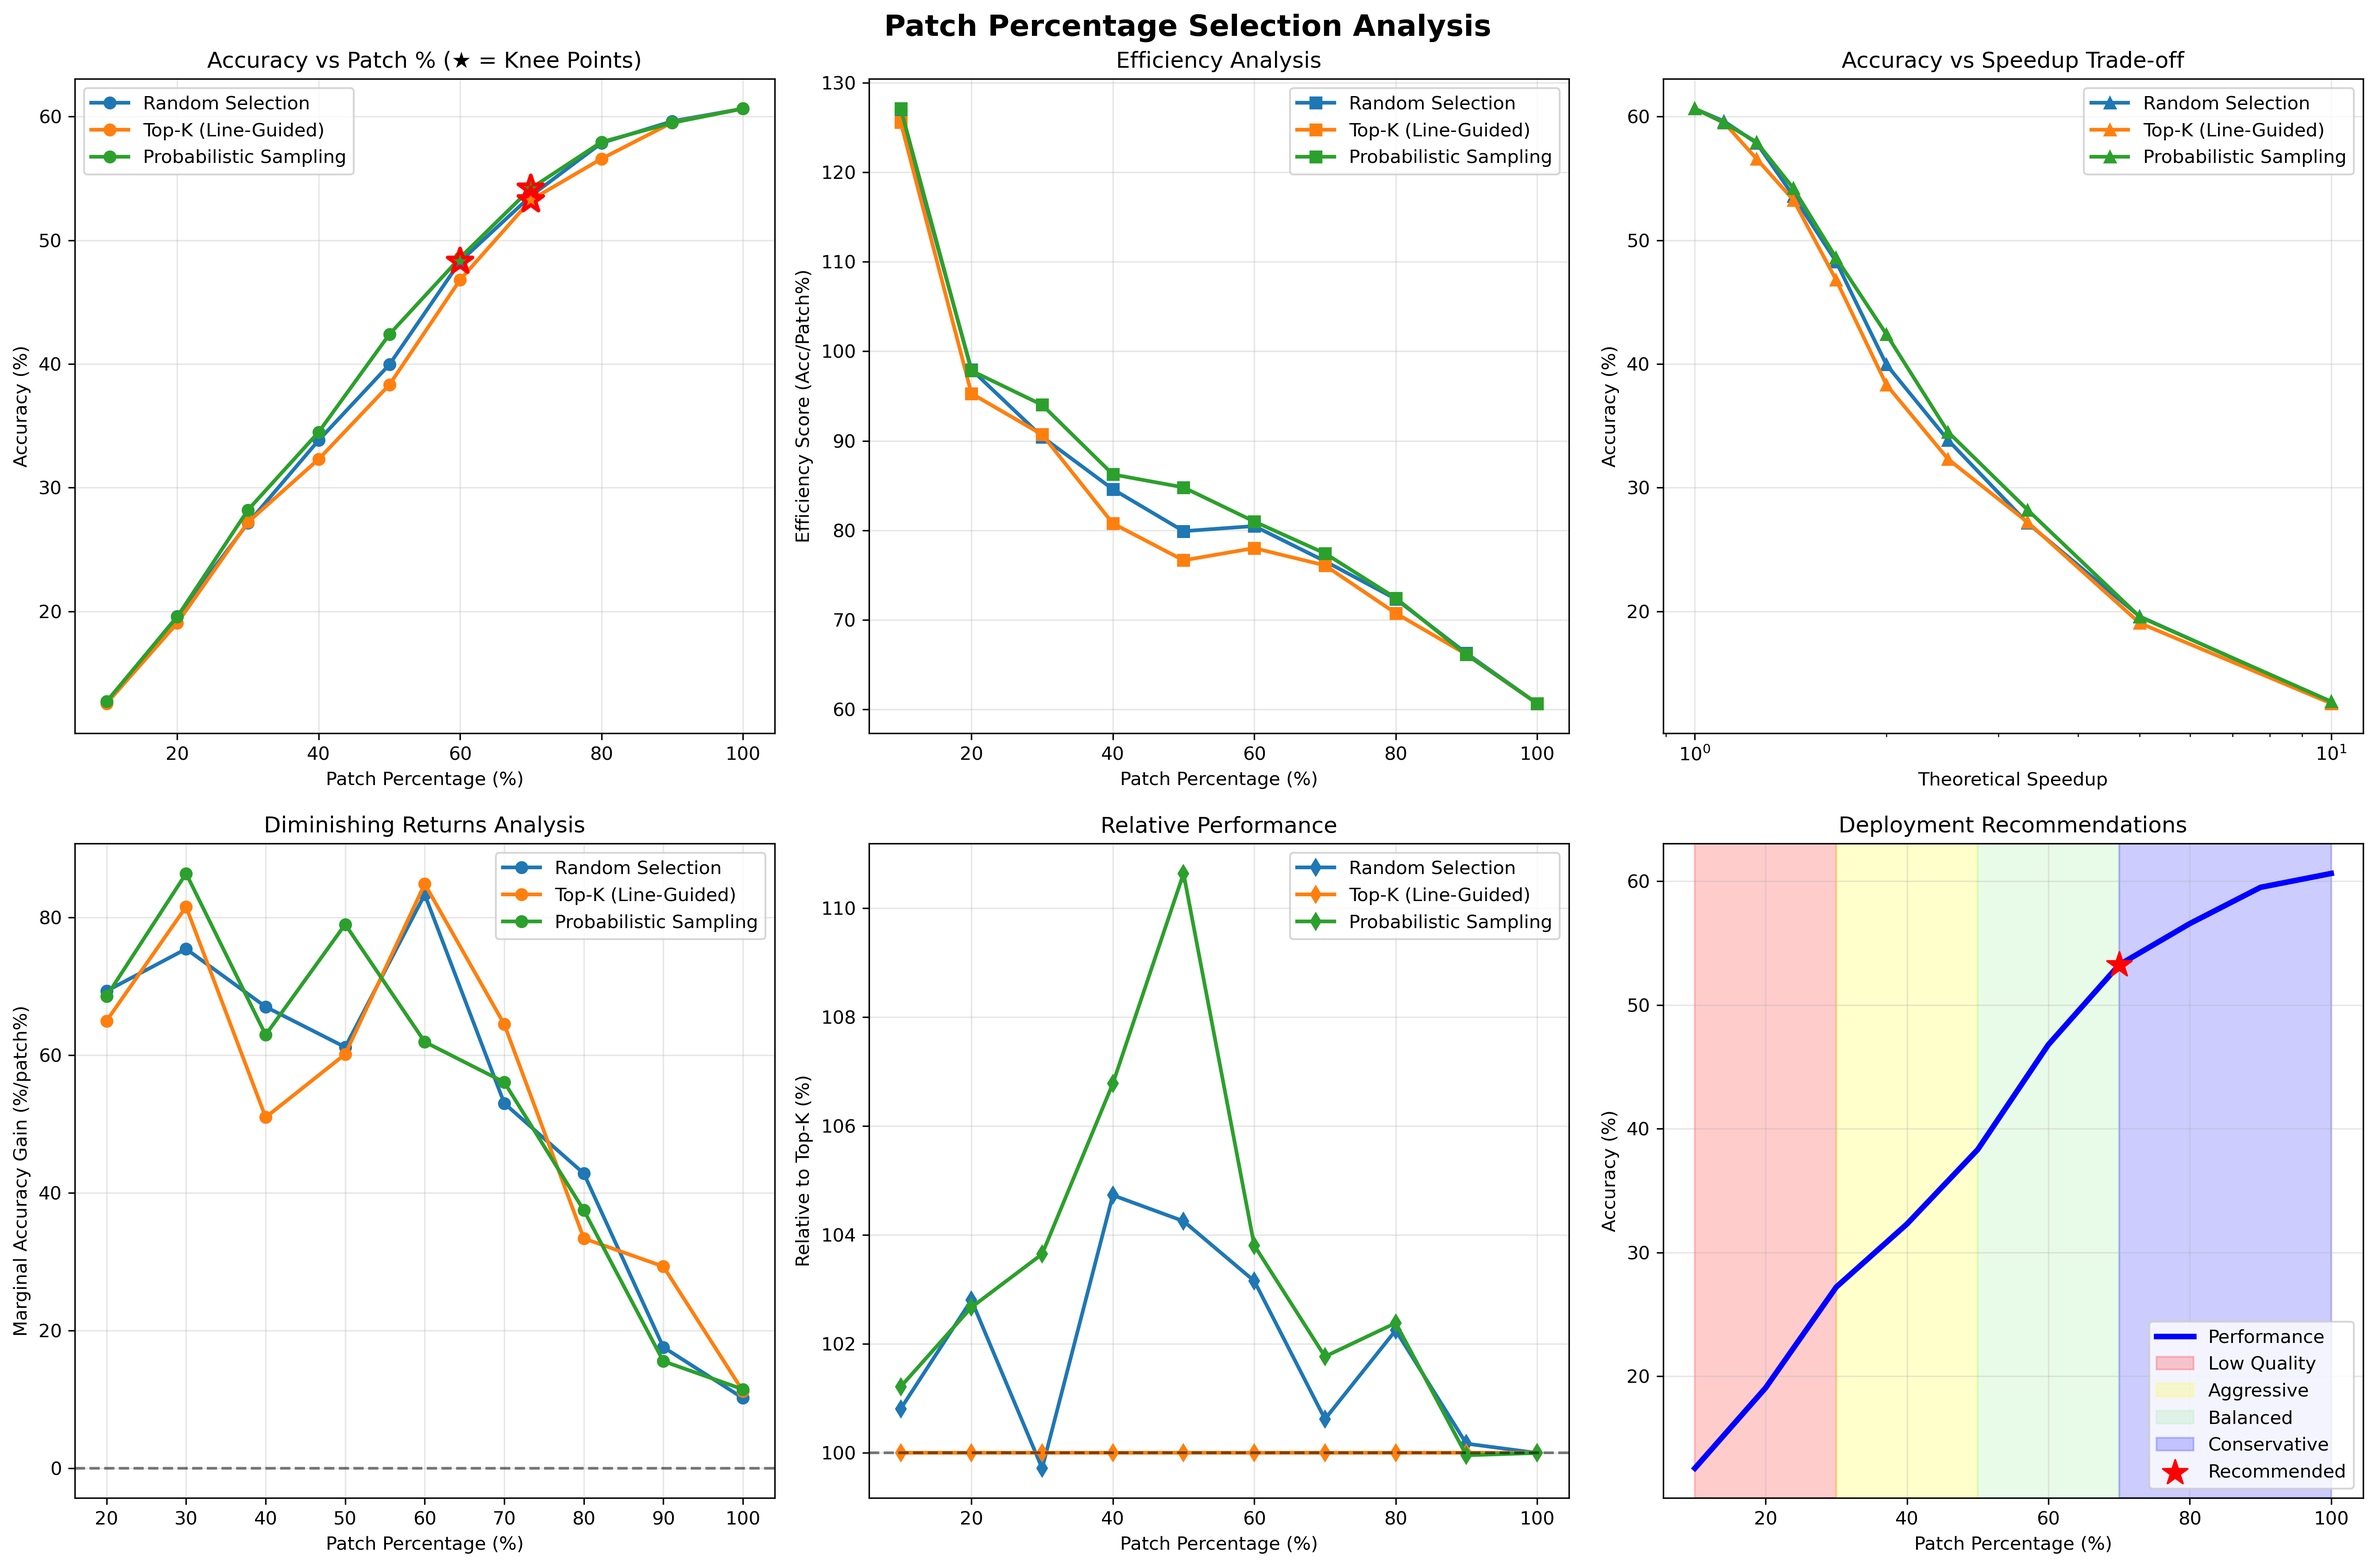
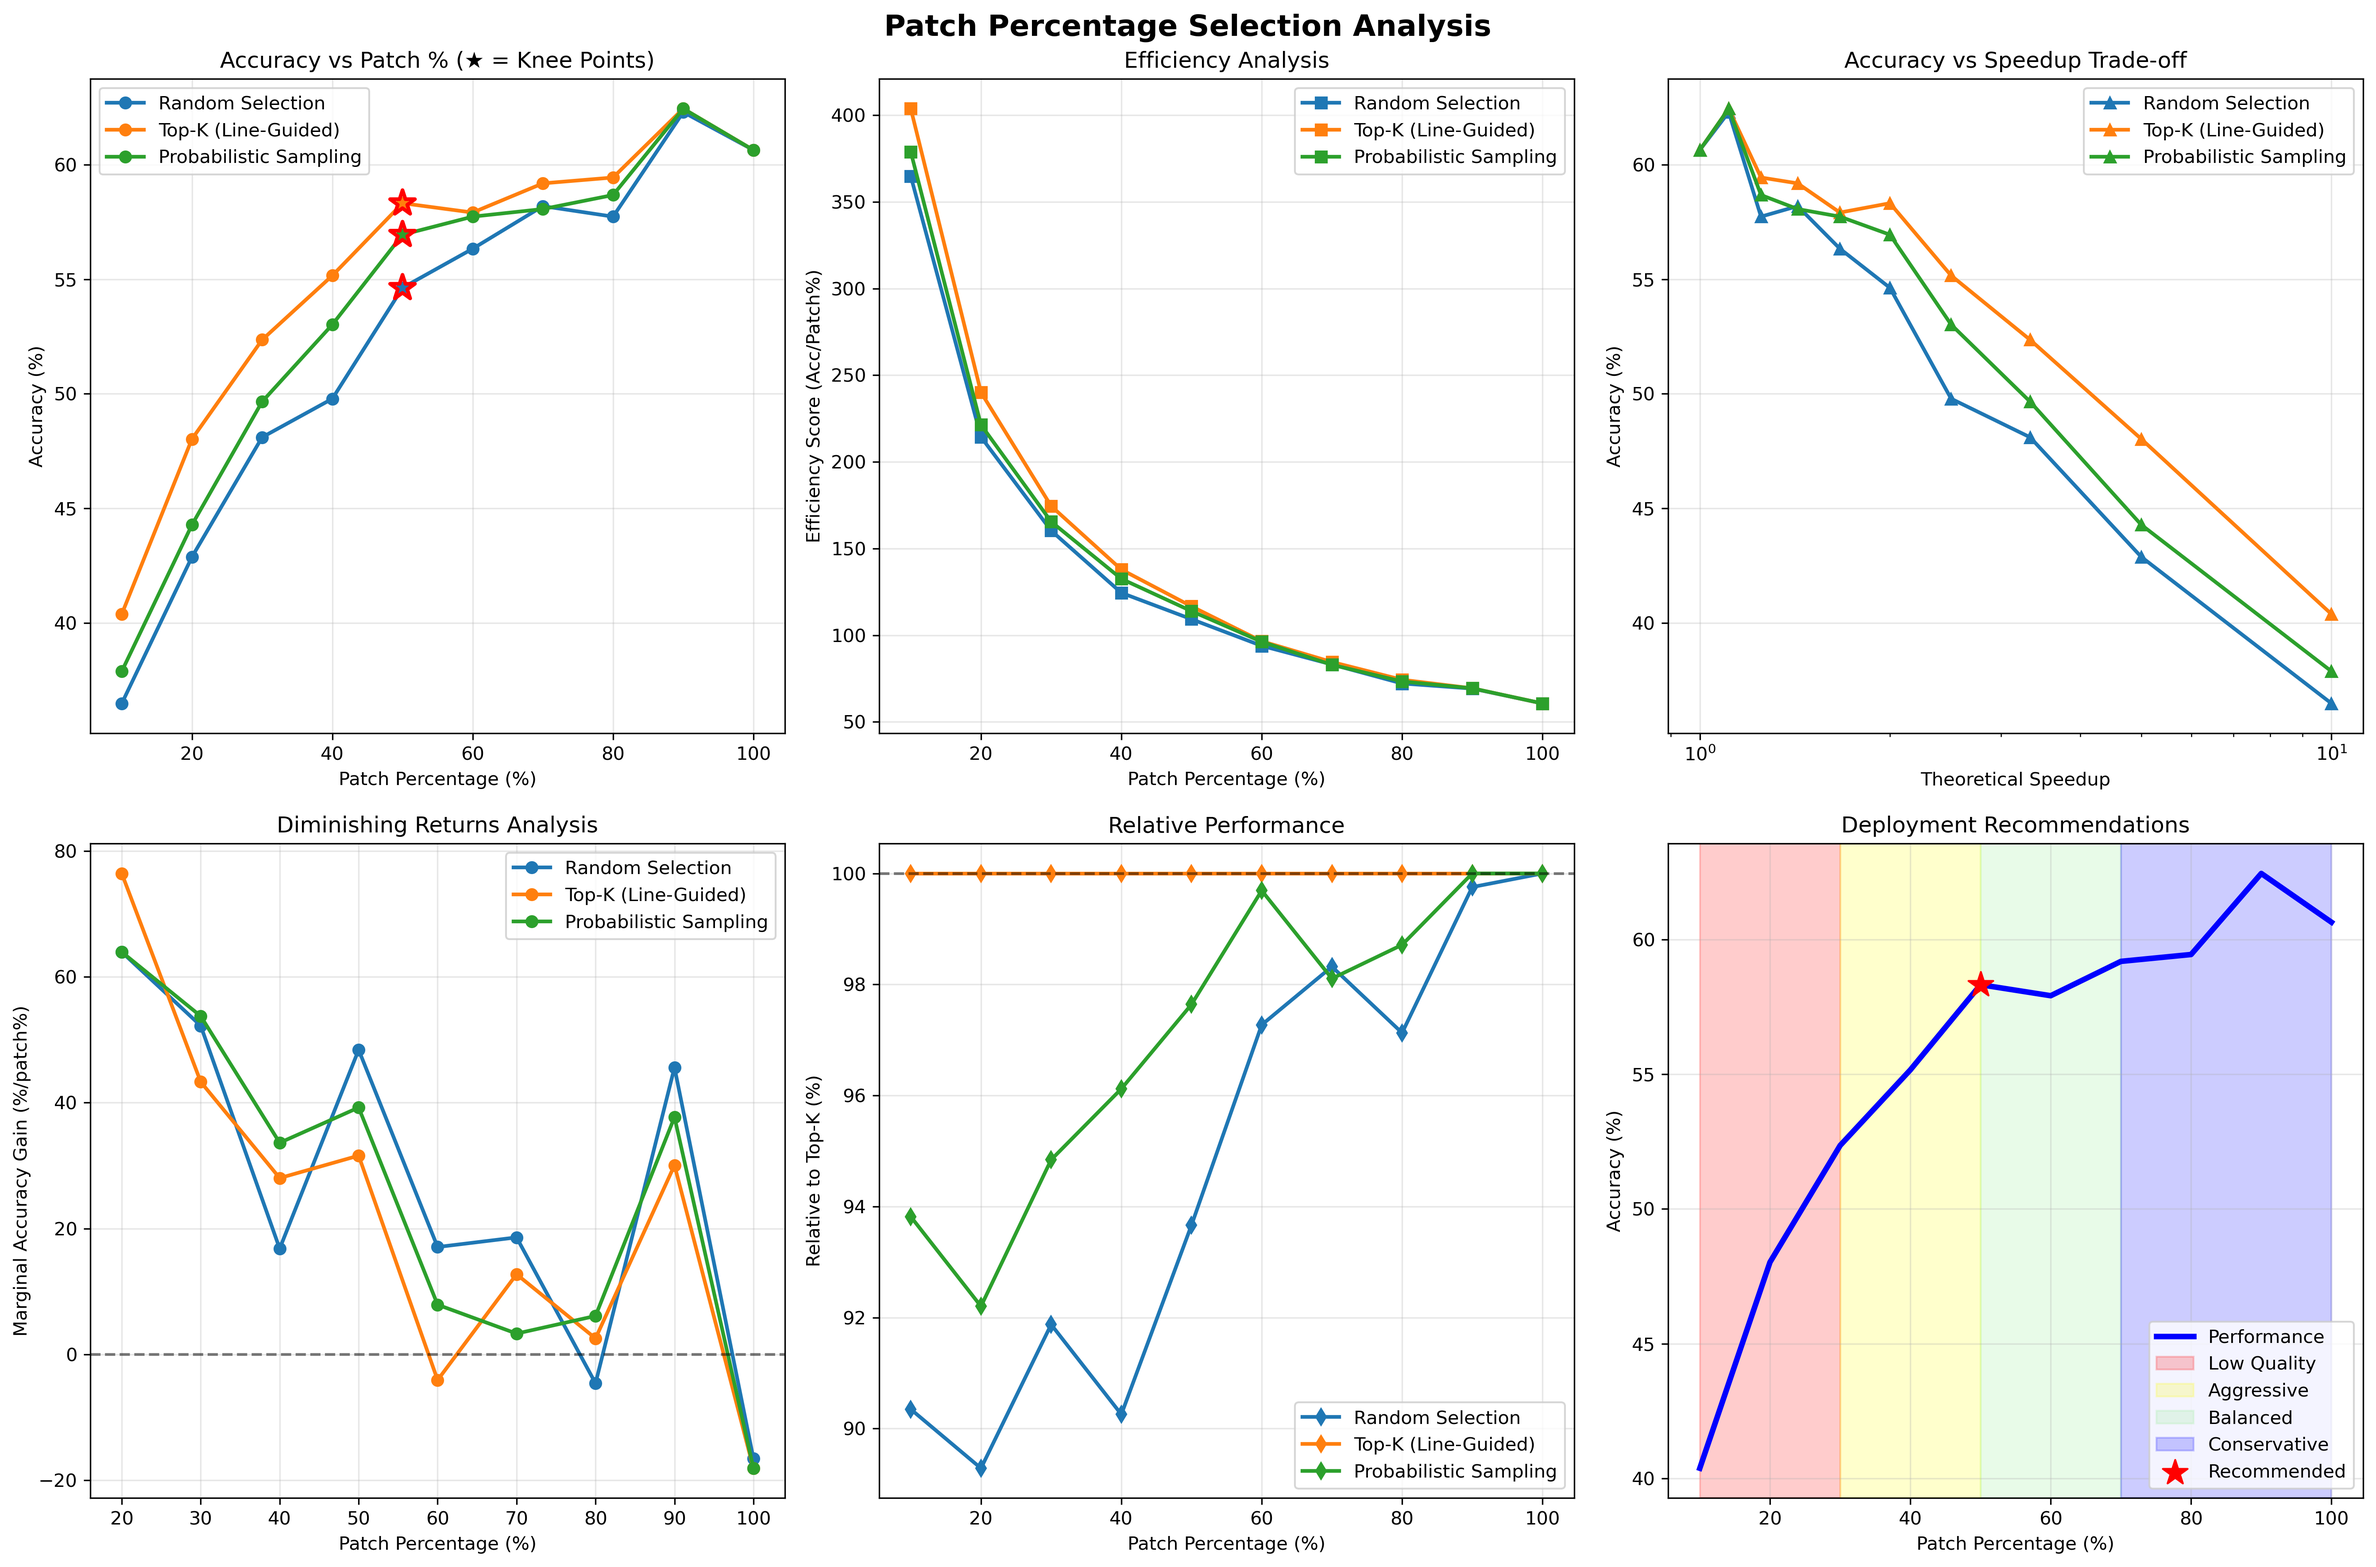
check for specific pp's model checkpoint first

diff --git a/src/evaluate.py b/src/evaluate.py
@@ -326,18 +326,15 @@ class ModelEvaluator:
 class AblationStudyEvaluator:
     """Conducts ablation study on patch selection strategies."""
     
-    def __init__(self, model_path, device, val_loader, class_names, 
+    def __init__(self, model_dir, device, val_loader, class_names, 
                  img_size=64, patch_size=4, num_classes=10):
-        self.model_path = model_path
+        self.model_dir = model_dir  # Changed from model_path to model_dir
         self.device = device
         self.val_loader = val_loader
         self.class_names = class_names
         self.img_size = img_size
         self.patch_size = patch_size
         self.num_classes = num_classes
-        
-        # Load the base model weights once
-        self.base_weights = torch.load(model_path, map_location=device)
         
         # Selection strategies to test
         self.strategies = {
@@ -347,9 +344,54 @@ class AblationStudyEvaluator:
         }
         
         self.results = {}
+        self.missing_checkpoints = []
     
-    def create_model_with_strategy(self, strategy, patch_percentage):
-        """Create a model with specific selection strategy and patch percentage."""
+    def load_checkpoint_for_percentage(self, patch_percentage):
+        """
+        Load the checkpoint trained at a specific patch percentage.
+        
+        Args:
+            patch_percentage (float): The patch percentage to load (e.g., 0.3)
+        
+        Returns:
+            dict or None: Model weights if found, None otherwise
+        """
+        # Try different naming patterns for the checkpoint
+        possible_paths = [
+            os.path.join(self.model_dir, f"best_model_pp{patch_percentage}.pth"),
+            os.path.join(self.model_dir, f"best_model_pp{patch_percentage:.1f}.pth"),
+            os.path.join(self.model_dir, f"best_model_pp{int(patch_percentage*100)}.pth"),
+        ]
+        
+        for path in possible_paths:
+            if os.path.exists(path):
+                print(f"  Loading checkpoint: {path}")
+                return torch.load(path, map_location=self.device)
+        
+        # If not found, track it
+        self.missing_checkpoints.append(patch_percentage)
+        print(f"  ⚠  No checkpoint found for {patch_percentage:.1%} patches")
+        return None
+    
+    def create_model_with_checkpoint(self, strategy, patch_percentage):
+        """
+        Create a model with specific selection strategy and load the checkpoint
+        trained at that patch percentage.
+        
+        Args:
+            strategy (str): Selection strategy to use
+            patch_percentage (float): Patch percentage for both model config and checkpoint
+        
+        Returns:
+            nn.Module or None: Configured model or None if checkpoint not found
+        """
+        # Load checkpoint for this specific patch percentage
+        checkpoint_weights = self.load_checkpoint_for_percentage(patch_percentage)
+        
+        if checkpoint_weights is None:
+            return None
+        
+        # Create model with the same patch percentage it was trained with
         model = SelectiveMagnoViT(
             patch_percentage=patch_percentage,
             num_classes=self.num_classes,
@@ -358,15 +400,19 @@ class AblationStudyEvaluator:
             selection_strategy=strategy
         ).to(self.device)
         
-        # Load the pre-trained weights
-        model.load_state_dict(self.base_weights, strict=False)
+        # Load the weights
+        model.load_state_dict(checkpoint_weights, strict=False)
         model.eval()
         
         return model
     
     def evaluate_strategy_at_percentage(self, strategy, patch_percentage):
         """Evaluate a specific strategy at a given patch percentage."""
-        model = self.create_model_with_strategy(strategy, patch_percentage)
+        model = self.create_model_with_checkpoint(strategy, patch_percentage)
+        
+        if model is None:
+            print(f"    Skipping {strategy} @ {patch_percentage:.1%} - no checkpoint")
+            return None
         
         correct = 0
         total = 0
@@ -392,23 +438,58 @@ class AblationStudyEvaluator:
         """Run complete ablation study across strategies and percentages."""
         print("\n" + "="*60)
         print("ABLATION STUDY: Patch Selection Strategies")
+        print("Using Individual Checkpoints per Patch Percentage")
         print("="*60)
         
         # Initialize results dictionary
         for strategy in self.strategies.keys():
             self.results[strategy] = {
-                'percentages': patch_percentages,
+                'percentages': [],
                 'accuracies': []
             }
         
-        # Test each strategy at each percentage
+        # Track which percentages have available checkpoints
+        available_percentages = []
+        
+        # First, check which checkpoints are available
+        print("\nChecking available checkpoints...")
+        for pct in patch_percentages:
+            checkpoint = self.load_checkpoint_for_percentage(pct)
+            if checkpoint is not None:
+                available_percentages.append(pct)
+        
+        if not available_percentages:
+            print("ERROR: No checkpoints found!")
+            return self.results
+        
+        print(f"\nFound checkpoints for: {[f'{p:.1%}' for p in available_percentages]}")
+        
+        if self.missing_checkpoints:
+            print(f"Missing checkpoints for: {[f'{p:.1%}' for p in self.missing_checkpoints]}")
+            print("Note: Only evaluating available checkpoints")
+        
+        # Test each strategy at each available percentage
         for strategy in self.strategies.keys():
             print(f"\nEvaluating {self.strategies[strategy]}...")
             
             for pct in patch_percentages:
-                accuracy = self.evaluate_strategy_at_percentage(strategy, pct)
-                self.results[strategy]['accuracies'].append(accuracy)
-                print(f"  {pct:.1%} patches: {accuracy:.4f}")
+                if pct in available_percentages:
+                    accuracy = self.evaluate_strategy_at_percentage(strategy, pct)
+                    if accuracy is not None:
+                        self.results[strategy]['percentages'].append(pct)
+                        self.results[strategy]['accuracies'].append(accuracy)
+                        print(f"  {pct:.1%} patches: {accuracy:.4f}")
+        
+        # Report summary
+        if self.missing_checkpoints:
+            print("\n" + "="*60)
+            print("MISSING CHECKPOINTS SUMMARY")
+            print("="*60)
+            print("The following patch percentages need to be trained:")
+            for pct in self.missing_checkpoints:
+                print(f"  - {pct:.1%}: Run training with --patch-percentage {pct}")
+            print("\nTo train missing checkpoints, use:")
+            print("  sbatch scripts/run_training.sh --patch-percentage <value>")
         
         return self.results
     
@@ -911,7 +992,7 @@ def ablation_study(args):
     print(f"Using device: {device}")
     
     # Create output directory
-    output_dir = args.plots_dir if args.plots_dir else args.output_dir
+    output_dir = args.output_dir or args.plots_dir
     os.makedirs(output_dir, exist_ok=True)
     
     # Load data
@@ -936,18 +1017,12 @@ def ablation_study(args):
         pin_memory=True
     )
     
-    # Get model path
-    if args.model_path:
-        model_path = args.model_path
-    else:
-        model_path = os.path.join(args.model_dir, "best_model_pp1.0.pth")
-    
     # Define patch percentages to test
     patch_percentages = [0.1, 0.2, 0.3, 0.4, 0.5, 0.6, 0.7, 0.8, 0.9, 1.0]
     
-    # Initialize evaluator
+    # Initialize evaluator with model directory instead of single model path
     evaluator = AblationStudyEvaluator(
-        model_path=model_path,
+        model_dir=args.model_dir,  # Changed from model_path
         device=device,
         val_loader=val_loader,
         class_names=val_dataset.class_names,
@@ -959,15 +1034,19 @@ def ablation_study(args):
     # Run ablation study
     results = evaluator.run_ablation_study(patch_percentages)
     
-    # Analyze optimal percentages
-    evaluator.analyze_optimal_percentages(args.output_dir or output_dir)
-    
-    # Create visualizations
-    print("\nGenerating visualizations...")
-    evaluator.plot_ablation_results(output_dir)
-    
-    # Save results
-    evaluator.save_results(output_dir)
+    # Only create visualizations if we have results
+    if any(len(r['accuracies']) > 0 for r in results.values()):
+        # Analyze optimal percentages
+        evaluator.analyze_optimal_percentages(output_dir)
+        
+        # Create visualizations
+        print("\nGenerating visualizations...")
+        evaluator.plot_ablation_results(output_dir)
+        
+        # Save results
+        evaluator.save_results(output_dir)
+    else:
+        print("\nNo results to visualize - please train the required checkpoints first")
 
 
 def main(args):
